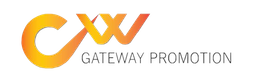
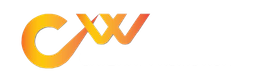
Late night fiddling

Changed region(s): [[0.3089, 0.6667, 0.8958, 0.8205]]

diff --git a/about.html b/about.html
@@ -63,7 +63,7 @@
 
       <!-- Fixed navbar -->
     <nav class="navbar navbar-default navbar-static-top" role = "navigation">
-      <div class="container">
+      <div class="container" id = color>
         <div class="navbar-header">
           <button type="button" class="navbar-toggle collapsed" data-toggle="collapse" data-target="#navbar" aria-expanded="false" aria-controls="navbar">
             <span class="sr-only">Toggle navigation</span>
@@ -115,6 +115,35 @@
     <br>
         
       </div>
+
+
+
+<div class="jumbotron">
+       
+            
+       <br>
+
+     <br>
+
+
+<!-- PLACEHOLDER UNTIL WE ADD CONTENT -->
+<img id ="firstImage" src="images/GatewayImages/IMG_6755.JPG" alt="Second slide">
+
+<h1> About Us</h1>
+
+    <p>Gateway Promotions provides high quality low cost Alcohol Marketing. We have extensive experience in Wine and Liquor samplings. As well as, craft beer and promotional bar events.  Our team provides passionate marketing skills, with the ability to customize there tactics to best fit our clienteles desires. We provide a wide-range of product knowledge. Our professional team members use this knowledge to make our client's products unforgettable to there customers.  Gateway Promotional services are offered at the best price around the Capital Region. </p>
+    
+   <br>
+   <br>
+   <br>
+    <br>
+        
+      </div>
+
+
+
+
+      
 
     </div> <!-- /container -->
 

diff --git a/contact.html b/contact.html
@@ -90,9 +90,21 @@
 <br>
 
 <!-- PLACEHOLDER UNTIL WE ADD CONTENT -->
-<h1> Contact page...</h1>
-  
+<h2> Mike Young </h2>
+    <p> Operations Manager</p>
+     <p> Phone Number: 518-209-2235</p><!--Have to make so it shows up with link to call-->
+     <P>Email: myoung3@albany.edu </P><!--Have to make so it shows up with link to email-->
         
+<h2> Dave Patel </h2>
+    <p> Owner</p>
+     <p> Phone Number: 518-545-9289</p> <!--Have to make so it shows up with link to call-->
+     <P>Email: davepatel52@yahoo.com</P>
+
+<h2> Brenna Cacio </h2>
+    <p> UAlbany Recruiting Supervisor</p>
+     <p> Phone Number: 914-433-0323</p> <!--Have to make so it shows up with link to call-->
+     
+
       </div>
 
     </div> <!-- /container -->

diff --git a/index.html b/index.html
@@ -59,7 +59,11 @@
 
   <body>
 
-<a href="index.html"><img src = "images/gatewayPromotion.png"></img></a>
+
+
+
+
+<a href="index.html"><img src = "images/logo.png"></img></a>
 
       <!-- Fixed navbar -->
     <nav class="navbar navbar-default navbar-static-top" role = "navigation">

diff --git a/CSS/general.css b/CSS/general.css
@@ -19,6 +19,14 @@ h3{
     text-align: center;
    
 }
+div#color.container {
+	background-color: #0f006f;
+    border-color: #030033;
+
+
+}
+
+
 
 
 /*
